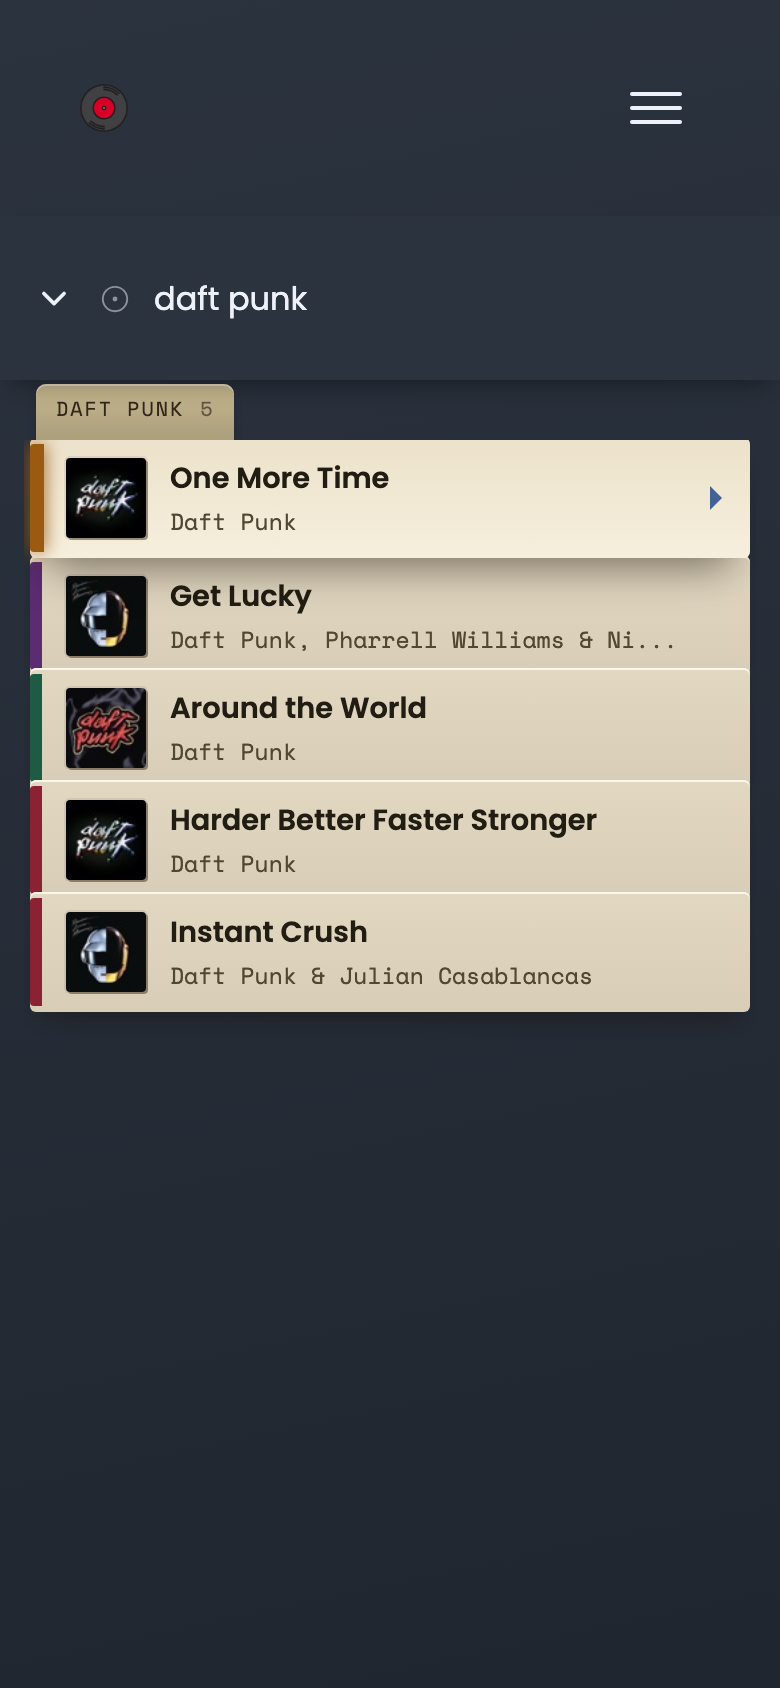
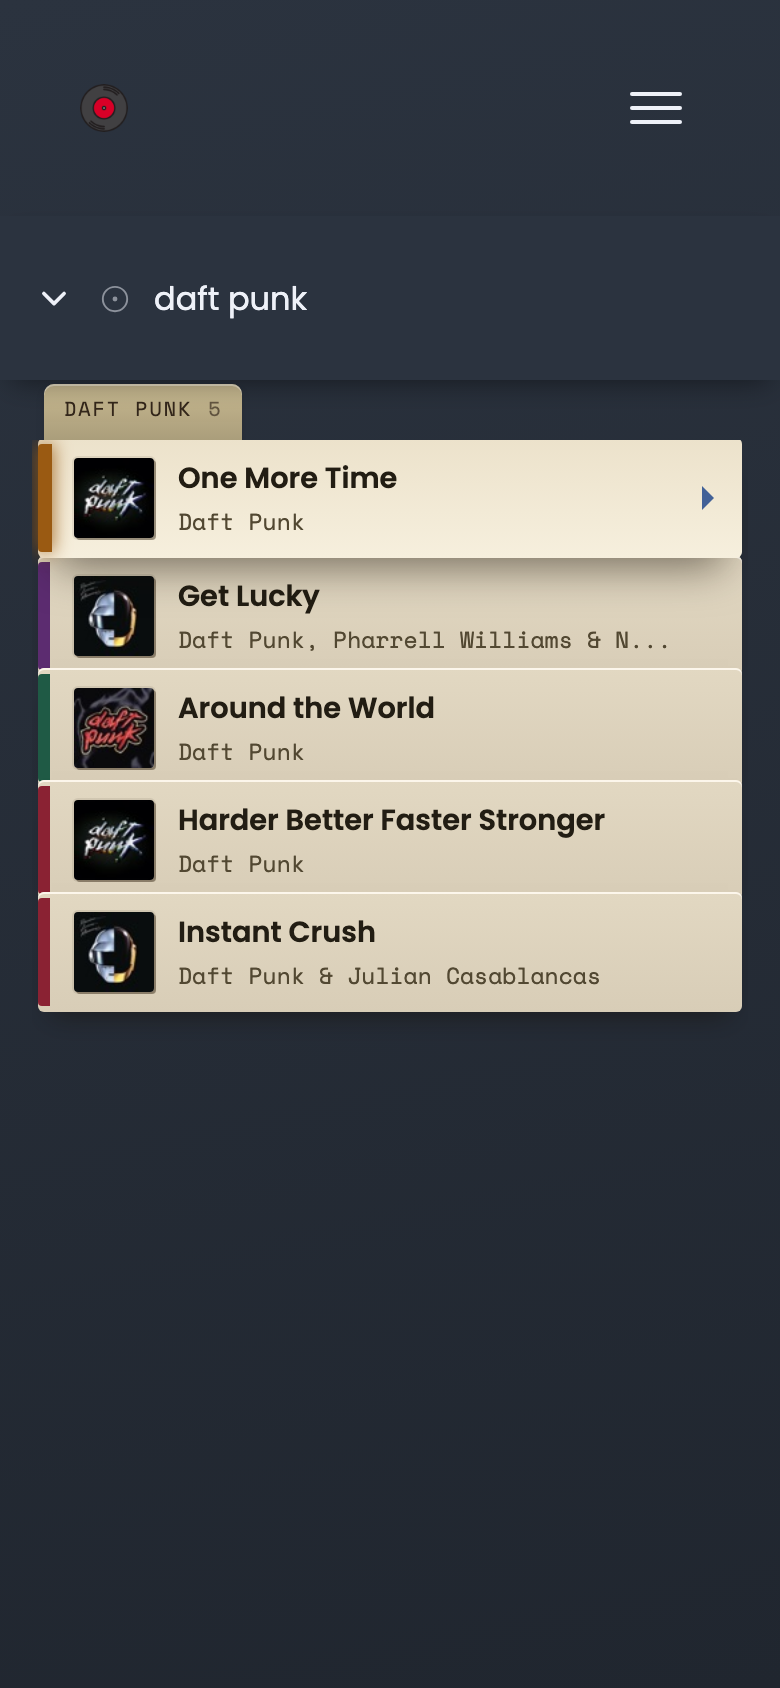
fix: crate — takeover for every touch device, so iPad works
A friend's iPad couldn't open the crate when she typed a song. The
dropdown-vs-takeover choice was `window.innerWidth < 768` — false at
*exactly* 768px (iPad Mini / older iPad in portrait), so those fell to the
desktop dropdown while the CSS mobile block (`@media (max-width: 768px)`,
inclusive) had already switched the hero to single-column. The dropdown
then opened upward from an input now near the top of the screen and landed
off the top of the viewport — first result unclickable. Every larger iPad
got the cramped dropdown regardless.

- path is now `matchMedia("(pointer: coarse), (max-width: 768px)")` — any
  tablet/phone in any orientation gets the full-screen takeover, mouse
  desktops keep the dropdown, and the JS/CSS 768px boundary agrees.
- reactive via one `change` listener (covers width crossing 768 and a
  pointer type changing, e.g. an iPad gaining a trackpad).
- new `--crate-dig-gutter` (`max(16px, (100vw - 680px) / 2)`) centres the
  shelf + cards in a ~680px column so nothing stretches across a landscape
  tablet.

Verified (Playwright): 11-viewport matrix — phone, iPad Mini 768 portrait,
iPad Air/Pro portrait, iPad landscape, iPad Pro 12.9, Android tablet,
desktop 1280/1440/1920, touch-laptop 1024 — all render 5 cards, all
on-screen and clickable, correct path each. Mobile open still 60fps every
time (CPU-throttled). Both themes; select / Escape / chevron dismiss;
0 crate errors. lint unchanged (7/2). build clean.

diff --git a/client/src/components/record-crate.jsx b/client/src/components/record-crate.jsx
@@ -9,7 +9,12 @@ import useReducedMotion from "../hooks/use-reduced-motion.js";
 const RESULT_LIMIT = 5;
 const FETCH_LIMIT = 15;
 const DEBOUNCE_MS = 400;
-const MOBILE_BREAKPOINT = 768;
+// The takeover, not the rect-anchored dropdown, is used for every touch device
+// (any iPad, Android tablet, phone) and for narrow windows. `max-width: 768px`
+// mirrors the site's mobile CSS breakpoint EXACTLY (an `innerWidth < 768` JS
+// check disagreed with the inclusive CSS `max-width` at 768px itself — an
+// iPad Mini in portrait — and the dropdown opened off the top of the screen).
+const TOUCH_UI_QUERY = "(pointer: coarse), (max-width: 768px)";
 const PANEL_GAP = 10;
 
 // Search goes through our own backend rather than calling Apple directly.
@@ -41,12 +46,12 @@ export default function RecordCrate({ onSelect }) {
     const [results, setResults] = useState([]);
     const [activeIndex, setActiveIndex] = useState(-1);
     const [panelStyle, setPanelStyle] = useState(null);
-    // Below MOBILE_BREAKPOINT the expanded bin is a full-screen "dig" takeover;
-    // above it, a rect-anchored `fixed` dropdown. Either way the panel is
-    // portaled to <body> (never a descendant of .record-crate) so animating it
-    // can't reflow the hero grid.
+    // On touch / narrow (TOUCH_UI_QUERY) the expanded bin is a full-screen
+    // "dig" takeover; otherwise a rect-anchored `fixed` dropdown. Either way
+    // the panel is portaled to <body> (never a descendant of .record-crate) so
+    // animating it can't reflow the hero grid.
     const [isMobile, setIsMobile] = useState(
-        () => typeof window !== "undefined" && window.innerWidth < MOBILE_BREAKPOINT
+        () => typeof window !== "undefined" && window.matchMedia(TOUCH_UI_QUERY).matches
     );
     // Kept mounted through the close animation, then unmounted by its onComplete —
     // a full-screen takeover must slide away, not just vanish.
@@ -105,9 +110,12 @@ export default function RecordCrate({ onSelect }) {
     useEffect(() => () => clearTimeout(debounceRef.current), []);
 
     useEffect(() => {
-        const onResize = () => setIsMobile(window.innerWidth < MOBILE_BREAKPOINT);
-        window.addEventListener("resize", onResize);
-        return () => window.removeEventListener("resize", onResize);
+        // One media query covers both axes — width crossing 768px and a
+        // pointer changing (an iPad gaining/losing a trackpad) both flip it.
+        const mq = window.matchMedia(TOUCH_UI_QUERY);
+        const update = () => setIsMobile(mq.matches);
+        mq.addEventListener("change", update);
+        return () => mq.removeEventListener("change", update);
     }, []);
 
     const showPanel = open && query.trim().length > 0;

diff --git a/client/src/styles/main.scss b/client/src/styles/main.scss
@@ -110,6 +110,9 @@
   // border-box + 2×16px row padding). One measured constant, like
   // --navbar-height — the panel below reserves navbar + this.
   --crate-shelf-h: 82px;
+  // Takeover side gutter — 16px on a phone, then it grows to centre a ~680px
+  // column so the shelf and cards don't stretch across a landscape tablet.
+  --crate-dig-gutter: max(16px, calc((100vw - 680px) / 2));
 
   // Vinyl colourways — the "special pressing" feel of a record store. Chosen
   // per track by a hash of its id (see vinyl-record.jsx), never at random, so a
@@ -1943,7 +1946,7 @@ html {
   box-sizing: border-box;
   min-height: var(--crate-shelf-h);
   gap: 12px;
-  padding: 16px;
+  padding: 16px var(--crate-dig-gutter);
   opacity: 0;
   // Flat --crate-chip-1 so it meets the panel's chipboard (which is near
   // chip-1 at its top) with no visible step; the soft shadow reads it as a
@@ -1993,8 +1996,9 @@ html {
   z-index: 60; // over the hero, under the navbar (1000) — nav stays usable
   display: flex;
   flex-direction: column;
-  // Clear the fixed navbar AND the fixed input-row shelf sitting on top of it.
-  padding: calc(var(--navbar-height) + var(--crate-shelf-h)) 12px 0;
+  // Clear the fixed navbar AND the fixed input-row shelf sitting on top of it;
+  // the side gutter centres the list column on wide (landscape-tablet) screens.
+  padding: calc(var(--navbar-height) + var(--crate-shelf-h)) var(--crate-dig-gutter) 0;
   border-radius: 0;
   overflow: hidden;
   opacity: 0;

diff --git a/design-review/STATUS.md b/design-review/STATUS.md
@@ -1,13 +1,16 @@
 # Project Status — diegodamian.com
 
-**Updated:** 2026-09-06 (**Record crate — cool dark chipboard + smoother
-mobile open**: the dark chipboard is a cool blue-slate now (`--crate-chip-*`,
-was warm grey-brown) so the bin reads with the navy / blue-vinyl / dot-matrix
-vibe instead of against it; light keeps its warm particleboard. The mobile
-takeover was re-architected — `.record-crate` stays in the hero grid (only
-the input row pins; the panel portals to `<body>`), killing a measured
-first-open frame-drop from the grid reflowing when it went `position: fixed`.
-Full entry in §2.) Prior, same day (**Hero background — dot matrix + per-song
+**Updated:** 2026-09-06 (**Record crate — cool dark chipboard, smoother open,
+iPad fix**: the dark chipboard is a cool blue-slate now (was warm grey-brown)
+so the bin reads with the navy / blue-vinyl / dot-matrix vibe; light keeps
+warm particleboard. The mobile takeover was re-architected — `.record-crate`
+stays in the hero grid (only the input row pins; the panel portals to
+`<body>`), killing a measured first-open frame-drop. **And the crate now
+works on iPad** — the touch/dropdown decision is `matchMedia("(pointer:
+coarse), (max-width: 768px)")`, so every tablet gets the takeover (an
+`innerWidth < 768` check had failed at exactly 768px — iPad Mini portrait —
+and opened the dropdown off the top of the screen). Full entry in §2.) Prior,
+same day (**Hero background — dot matrix + per-song
 colour schemes**: the neon skyline bars are replaced by a colour DOT MATRIX
 rising
 from the horizon. Same presence model (blank until a track plays, an eased
@@ -173,10 +176,11 @@ working hero is design information the sections beneath it need.
 
 ## 2. What changed recently
 
-### Record crate — cool dark chipboard, smoother mobile open *(2026-09-06)*
+### Record crate — cool dark chipboard, smoother open, works on iPad *(2026-09-06)*
 
 Owner feedback on the "dig" takeover: liked it, but the mobile open "looks
-kinda laggy," and the dark chipboard "isn't the most suitable" for the vibe.
+kinda laggy," the dark chipboard "isn't the most suitable" for the vibe, and
+**a friend's iPad couldn't open the crate at all** when she typed a song.
 
 **The dark chipboard is a cool blue-slate now** — `--crate-chip-1 #2b333f`,
 `-2 #20262f`, `-band #171b22` (was a warm grey-brown `#423d36`). A warm
@@ -207,12 +211,28 @@ right as the takeover mounts). Now:
   written straight to the panel node, rAF-throttled — no `setState`, so the
   keyboard-slide event burst can't re-render mid-animation.
 
-**Verified** (Playwright, 5173, CPU 6×): every mobile open — first included —
-is a steady 60fps, zero dropped frames (was 83ms + 33ms on open #1). Desktop
-+ mobile × dark + light: 5 cards, shelf at the navbar line, panel portaled &
-covering, clears navbar+shelf, `role="dialog"`, select / Escape / chevron all
-dismiss, resting DOM clean after close (no leftover inline styles, deck
-doesn't jump), 0 crate console errors. `lint` unchanged (7/2). `build` clean.
+**iPad (and every touch device) now gets the takeover.** The old check was
+`window.innerWidth < 768` — false at *exactly* 768px (iPad Mini / older iPad
+portrait), so those fell to the desktop dropdown while the CSS
+(`@media (max-width: 768px)`, inclusive) had already switched to the mobile
+hero layout. The dropdown then opened *upward from an input near the top of
+the screen* — off the top of the viewport, first result unclickable
+("couldn't open anything"). And every larger iPad got the cramped dropdown
+regardless. Now the path is chosen by `matchMedia("(pointer: coarse),
+(max-width: 768px)")` — any tablet/phone in any orientation gets the
+takeover, mouse-driven desktops keep the dropdown, and the JS/CSS breakpoints
+agree at 768px. A `--crate-dig-gutter` (`max(16px, (100vw − 680px) / 2)`)
+centres the shelf + cards in a ~680px column so nothing stretches across a
+landscape tablet.
+
+**Verified** (Playwright, 5173): an 11-viewport matrix — phone, iPad Mini
+768 portrait, iPad Air/Pro portrait, iPad landscape, iPad Pro 12.9, Android
+tablet, desktop 1280/1440/1920, touch-laptop 1024 — all render 5 cards, all
+on-screen and clickable, correct path each. CPU-throttled: every mobile open
+(first included) is a steady 60fps, zero dropped frames (was 83 + 33 ms on
+open #1). Both themes; select / Escape / chevron dismiss; resting DOM clean
+after close (deck doesn't jump); 0 crate console errors. `lint` unchanged
+(7/2). `build` clean.
 
 ### Hero background — dot matrix + one colour scheme per song *(2026-09-06)*
 

diff --git a/design-review/FINDINGS.md b/design-review/FINDINGS.md
@@ -895,6 +895,22 @@ rows onto tablets, where there is enough width to show the cards as a grid
 instead — so the two options are not symmetric, and the breakpoint-raise is the
 weaker one for that section.
 
+> **Update, 2026-09-06 — the record crate joins the "tablets get the
+> phone treatment" list.** A friend's iPad couldn't open the crate at all:
+> the JS chose the dropdown-vs-takeover path on `window.innerWidth < 768`,
+> which is *false at exactly 768px* (iPad Mini / older iPad portrait) while
+> the CSS mobile block (`max-width: 768px`, inclusive) had already switched
+> the hero to its single-column layout — so the dropdown opened upward from
+> an input now near the top of the screen and landed off the top of the
+> viewport. Fixed by choosing the path on `matchMedia("(pointer: coarse),
+> (max-width: 768px)")`: every touch device gets the full-screen takeover,
+> and the JS/CSS 768px boundary now agrees. A `--crate-dig-gutter` centres
+> the takeover's shelf + cards in a ~680px column so nothing stretches on a
+> landscape tablet. This is the crate's own version of the `#my-taste`
+> breakpoint-raise — the takeover is a fine tablet idiom (it's a modal, not
+> a scaled-down desktop), so unlike `#my-taste`'s swipe rows there's no
+> identity cost. STATUS §2 (2026-09-06) has the full note.
+
 ---
 
 ### D33 — "Avenir Next" was never actually self-hosted — sitewide, it was one missing @font-face away from a generic system sans — **FOUND AND FIXED, Stage 10 (2026-09-01)**
